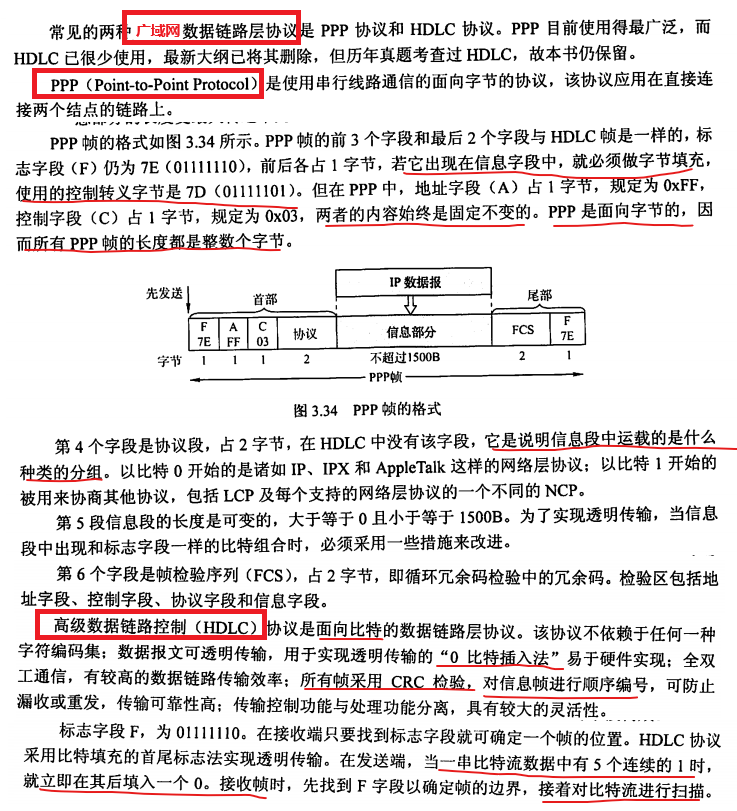
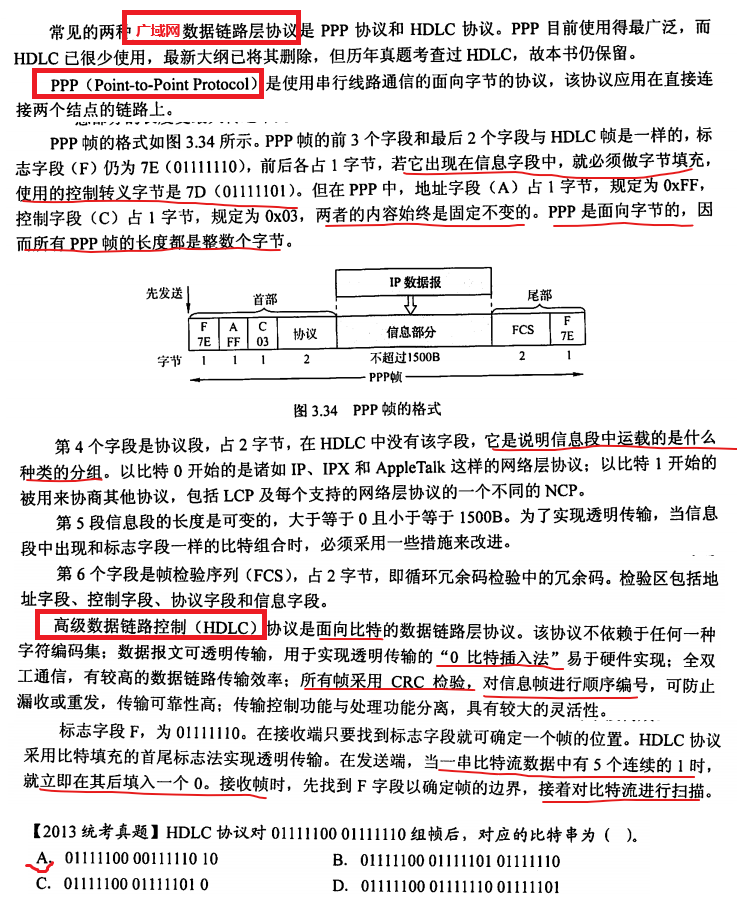
x

diff --git a/计算机专业课-网络 .md b/计算机专业课-网络 .md
@@ -96,7 +96,13 @@
 
 ![image-20240903150206071](img/image-20240903150206071.png)
 
+![image-20241021080504208](img/image-20241021080504208.png)
+
 ### 2.3 网络层
+
+![image-20241021083936790](img/image-20241021083936790.png)
+
+![image-20241021100229657](img/image-20241021100229657.png)
 
 ![image-20240903193456045](img/image-20240903193456045.png)
 

diff --git a/计算机专业课-错题集.md b/计算机专业课-错题集.md
@@ -39,3 +39,5 @@
 ![image-20241018115909056](img/image-20241018115909056.png)
 
 ![image-20241020111435596](img/image-20241020111435596.png)
+
+![image-20241021112535329](img/image-20241021112535329.png)
